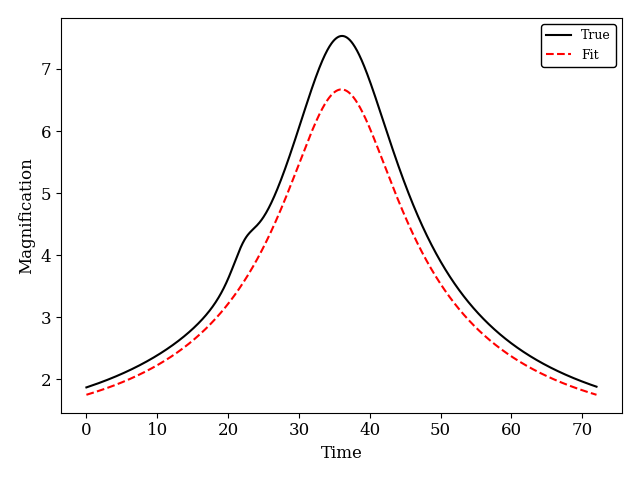
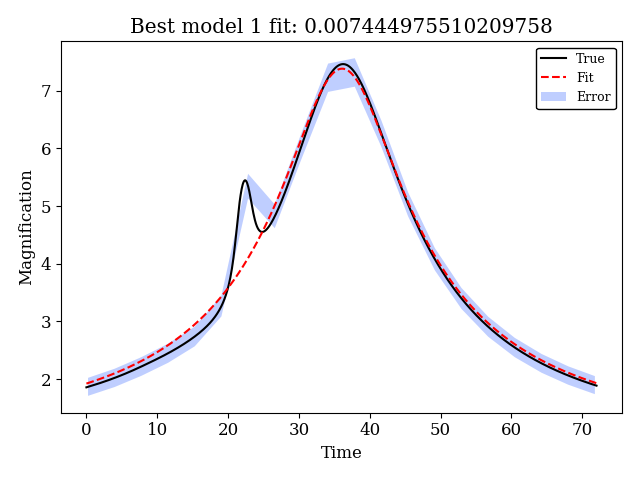
plots for talk

diff --git a/ReversibleJump.py b/ReversibleJump.py
@@ -35,7 +35,7 @@ plt.rcParams["grid.alpha"] = 0.25
 plt.rc('axes.formatter', useoffset=False)
 
 
-labels = [r'Impact Time [$?$]', r'Minimum Impact Parameter [$?$]', r'Crossing Time [$?$]', r'Rho [$?$]', r'Mass Ratio', r'Separation [$E_r$]', r'Alpha [$Degrees$]', ]
+labels = [r'Impact Time [$days$]', r'Minimum Impact Parameter [$1$]', r'Einstein Crossing Time [$days$]', r'Rho [$?$]', r'Mass Ratio', r'Separation [$E_r$]', r'Alpha [$Degrees$]', ]
 symbols = [r'$t_0$', r'$u_0$', r'$t_E$', r'$\rho$', r'$q$', r'$s$', r'$\alpha$']
 
 
@@ -67,10 +67,10 @@ Model.set_magnification_methods([0., 'VBBL', 72.])
 #0, 50, 25, 0.3
 # Generate "Synthetic" Lightcurve
 epochs = Model.set_times(n_epochs = 50)
-error = Model.magnification(epochs)/25 + 0.3
+error = Model.magnification(epochs)/30 + 0.25
 Data = mm.MulensData(data_list=[epochs, Model.magnification(epochs), error], phot_fmt='flux', chi2_fmt='flux')
 
-iterations = 10000
+iterations = 20000
 
 
 
@@ -268,11 +268,14 @@ def ParralelMain(arr):
     print("P(Binary): "+str(np.sum(ms-1)/iterations))
     #print(states)
 
-    return states, adaptive_score
+    return states, adaptive_score, ms, bestt, bests, centers
 
 
 params = [sn, Data, priors, m_pi, iterations]
 
+states, adaptive_score, ms, bestt, bests, centers = ParralelMain(params)
+center_1, center_2 = centers
+'''
 p = 2
 pool = Pool(p)
 
@@ -343,6 +346,15 @@ plt.clf()
 pltf.AdaptiveProgression(adaptive_history, ['Single', 'Binary'], p)
 
 g=g
+'''
+
+
+
+
+
+
+
+
 
 ## OTHER PLOT RESULTS ##
 
@@ -376,7 +388,7 @@ h_states_1=np.array(h_states_1)
 
 
 
-details = False
+details = True
 
 
 states_u = []
@@ -447,4 +459,43 @@ plt.clf()
 
 
 
+plt.grid()
+plt.plot(np.linspace(1, iterations, num=iterations), AC.scalarPolyProjection(states), "-", label="scalar")
+#plt.legend(fontsize=14)
+plt.title('RJMCMC scalar indicator trace')
+plt.xlabel('Iterations')
+plt.ylabel('Scalar Indicator')
+plt.ticklabel_format(axis = "y", style = "sci", scilimits = (0,0))
+plt.tight_layout()
+plt.savefig('Plots/Temp.png')
+plt.clf()
+
+
+# Plot the comparisons
+N = np.exp(np.linspace(np.log(1000), np.log(iterations), 10)).astype(int)
+
+new = np.zeros(len(N))
+y = np.array(AC.scalarPolyProjection(states))
+for i, n in enumerate(N):
+    new[i] = MC.autocorr.integrated_time(y[:n], c=5, tol=50, quiet=True)
+
+#
+plt.loglog(N, new, "o-")#, label=r"$\tau$")
+
+ylim = plt.gca().get_ylim()
+#plt.gca().set_xscale('log')
+#plt.gca().set_yscale('log')
+plt.plot(N, N / 50.0, "--k", label=r"$\tau = N/50$")
+
+plt.ylim(ylim)
+#plt.gca().set_yticks([])
+#plt.gca().set_xticks([])
+plt.title('RJMCMC Bias')
+plt.xlabel("number of samples, $N$")
+plt.ylabel(r"$\tau$ estimates")
+#plt.grid()
+plt.legend()
+plt.tight_layout()
+plt.savefig('Plots/AutoCorr.png')
+plt.clf()
 

diff --git a/light-curve-test.py b/light-curve-test.py
@@ -8,6 +8,19 @@ import numpy as np
 import Functions as f
 import matplotlib.patches as mpatches
 
+plt.rcParams["font.family"] = "serif"
+plt.rcParams['font.size'] = 12
+
+plt.style.use('seaborn-bright')
+
+plt.rcParams["legend.edgecolor"] = '0'
+plt.rcParams["legend.framealpha"] = 1
+plt.rcParams["legend.title_fontsize"] = 10
+plt.rcParams["legend.fontsize"] = 9
+
+plt.rcParams["grid.linestyle"] = 'dashed' 
+plt.rcParams["grid.alpha"] = 0.25
+
 # Get chi2 by creating a new model and fitting to previously generated data
 def chi2(t_0, u_0, t_E, rho, q, s, alpha, Data):
     Model = mm.Model({'t_0': t_0, 'u_0': u_0,'t_E': t_E, 'rho': rho, 'q': q, 's': s,'alpha': alpha})
@@ -18,7 +31,7 @@ def chi2(t_0, u_0, t_E, rho, q, s, alpha, Data):
 
 
 # Synthetic Events
-BinaryModel = mm.Model({'t_0': 36, 'u_0': 0.133, 't_E': 61.5, 'rho': 0.1, 'q': 0.05, 's': 1.120, 'alpha': 223.8})
+BinaryModel = mm.Model({'t_0': 36, 'u_0': 0.133, 't_E': 61.5, 'rho': 0.001, 'q': 0.00005, 's': 1.12, 'alpha': 200.8})
 #BinaryModel = mm.Model({'t_0': 36, 'u_0': 0.133, 't_E': 61.5, 'rho': 0.0056, 'q': 0.0009, 's': 1.3, 'alpha': 210.8})
 BinaryModel.set_magnification_methods([0., 'VBBL', 72.])
 
@@ -33,6 +46,25 @@ binaryError = BinaryModel.magnification(t[i])/30 + 0.2
 
 
 ## PLOT LIGHTCURVES ##
+
+
+# plot binary
+plt.grid()
+BinaryModel.plot_magnification(t_range=[0, 72], subtract_2450000=False, color='red')
+#plt.title('Weak binary lightcurve')
+plt.xlabel('Time [days]')
+plt.ylabel('Magnification')
+#err = mpatches.Patch(label='binaryError', alpha=0.5)
+#plt.legend(handles=[err])
+#lower = BinaryModel.magnification(t[i]) - binaryError / 2
+#upper = BinaryModel.magnification(t[i]) + binaryError / 2
+#plt.fill_between(t[i], lower, upper, alpha = 0.25)
+#plt.axis('square')!!!!!!!!!!!!!!!!!!!!!!!!!!!!!!!!!!!!!!!!!!!!!!!!!!!!!!!!!!!!!!!!!!!!!!!!!!!!!!!!!!!!!!!!!!!!
+plt.tight_layout()
+plt.savefig('Plots/confusing-curve.png')
+plt.clf()
+
+g=h
 
 # plot binary
 BinaryModel.plot_magnification(t_range=[0, 72], subtract_2450000=False, color='black')

diff --git a/PlotFunctions.py b/PlotFunctions.py
@@ -37,10 +37,10 @@ def PlotWalk(xi, yi, states, center, true, labels, symbols, details):
     cbar.ax.yaxis.set_label_position('right')
     plt.xlabel(labels[xi])
     plt.ylabel(labels[yi])
-    plt.title('RJMCMC walk\nprojected onto Binary ('+symbols[xi]+', '+symbols[yi]+') space')
+    plt.title('RJMCMC walk projected\n onto binary ('+symbols[xi]+', '+symbols[yi]+') space')
     
     if details == True:
-        plt.scatter(center[xi], center[yi], marker = r'$\odot$', label = 'Centre', s = markerSize, c = 'black', alpha = 1)
+        #plt.scatter(center[xi], center[yi], marker = r'$\odot$', label = 'Centre', s = markerSize, c = 'black', alpha = 1)
         plt.scatter(true[xi], true[yi], marker = '*', label = 'True', s = markerSize, c = 'black', alpha = 1) # r'$\circledast$'
         plt.legend()
     
@@ -96,7 +96,7 @@ def TracePlot(yi, states, jumpStates, jump_i, center, true, labels, symbols, det
     if details == True:
         plt.scatter(jump_i, jumpStates[:, yi], alpha = 0.25, marker = "*", label = 'Jump')
         plt.axhline(true[yi], label = 'True', color = 'red')
-        plt.axhline(center[yi], label = 'Centre', color = 'black')
+        #plt.axhline(center[yi], label = 'Centre', color = 'black')
         plt.legend()
 
 
@@ -117,11 +117,11 @@ def DistPlot(m, xi, states, center, true, labels, symbols, details):
     plt.hist(states[:, xi], bins = 25, density = True)
     plt.xlabel(labels[xi])
     plt.ylabel('Probability Density')
-    plt.title('RJMCMC Binary model ' + symbols[xi] + ' distribution')
+    plt.title('RJMCMC binary model ' + symbols[xi] + ' distribution')
 
     if details == True:
         plt.axvline(true[xi], label = 'True', color = 'red')
-        plt.axvline(center[xi], label = 'Centre', color = 'black')
+        #plt.axvline(center[xi], label = 'Centre', color = 'black')
         plt.legend()
 
     plt.ticklabel_format(axis = "y", style = "sci", scilimits = (0,0))

diff --git a/AdaptiveMCMC.py b/AdaptiveMCMC.py
@@ -75,7 +75,7 @@ Model = mm.Model({'t_0': 36, 'u_0': 0.133, 't_E': 61.5, 'rho': 0.0096, 'q': 0.00
 Model.set_magnification_methods([0., 'VBBL', 72.])
 
 # Generate "Synthetic" Lightcurve
-t = Model.set_times(n_epochs = 720)
+t = Model.set_times(n_epochs = 72)
 error = Model.magnification(t)/50 + 0.1
 Data = mm.MulensData(data_list=[t, Model.magnification(t), error], phot_fmt='flux', chi2_fmt='flux')
 
@@ -99,11 +99,13 @@ theta_2i = np.array([35, 0.125, 61.1, 0.00988, np.log(0.000305), 1.258, 222.8]) 
 
 # initial covariances (diagonal)
 covariance_1i=np.multiply(1, [0.01, 0.01, 0.1]) #0.0001
-covariance_2i=np.multiply(0.01, [0.1, 0.01, 0.1, 0.0001, 0.01, 0.01, 0.1])#[0.1, 0.01, 0.1, 0.0001, 0.01, 0.1, 1])#[0.01, 0.01, 0.1, 0.0001, 0.0001, 0.001, 0.001]
+covariance_2id=np.multiply(0.01, [0.1, 0.01, 0.1, 0.0001, 0.01, 0.01, 0.1])#[0.1, 0.01, 0.1, 0.0001, 0.01, 0.1, 1])#[0.01, 0.01, 0.1, 0.0001, 0.0001, 0.001, 0.001]
+covariance_2i = np.zeros((7, 7))
+np.fill_diagonal(covariance_2i, covariance_2id)
 #should be small to get a quick taste of size (too small makes growth to normal size to slow)
 
 burns = 25 #should be small to not bias later
-iters = 1025
+iters = 25000
 
 #covariance_1p, states_1, c_1 = f.AdaptiveMCMC(1, Data, theta_1i, priors, covariance_1i, 200, 200)
 covariance_2p, states_2, means_2, c_2, covs = f.AdaptiveMCMC(2, Data, theta_2i, priors, covariance_2i, burns, iters)

diff --git a/Functions.py b/Functions.py
@@ -123,7 +123,7 @@ def AdaptiveMCMC(m, data, theta, priors, covariance, burns, iterations):
     means = np.zeros((d, iterations + burns))
     means[:, 0] = theta
     
-    covs = [covariance]
+    covs = []
 
     pi = logLikelihood(m, data, unscale(m, theta), priors)
     for i in range(1, burns): # warm up walk to establish an empirical covariance
@@ -141,6 +141,7 @@ def AdaptiveMCMC(m, data, theta, priors, covariance, burns, iterations):
         
         states[:, i] = theta#unscale(m, theta)
         means[:, i] = (means[:, i-1]*i + theta)/(i + 1) # recursive mean (offsets indices starting at zero by one)
+        covs.append(covariance)
 
     # initiliase empirical covaraince
     covariance = s*np.cov(states[:, 0:burns]) + s*eps*I
@@ -293,6 +294,7 @@ def RJCenteredProposal(m, mProp, theta, covariance, centers, empDist, priors, de
 
             #thetaProp=np.concatenate(((l * centers[mProp-1][0:3]+centers[mProp-1][0:3]), u))
             thetaProp=np.concatenate(((l + centers[mProp-1][0:3]), u))
+            #thetaProp=GaussianProposal(thetaProp, covariance)
 
             return thetaProp, 1#1/q(u|l + centers[mProp-1][0:3])
 
